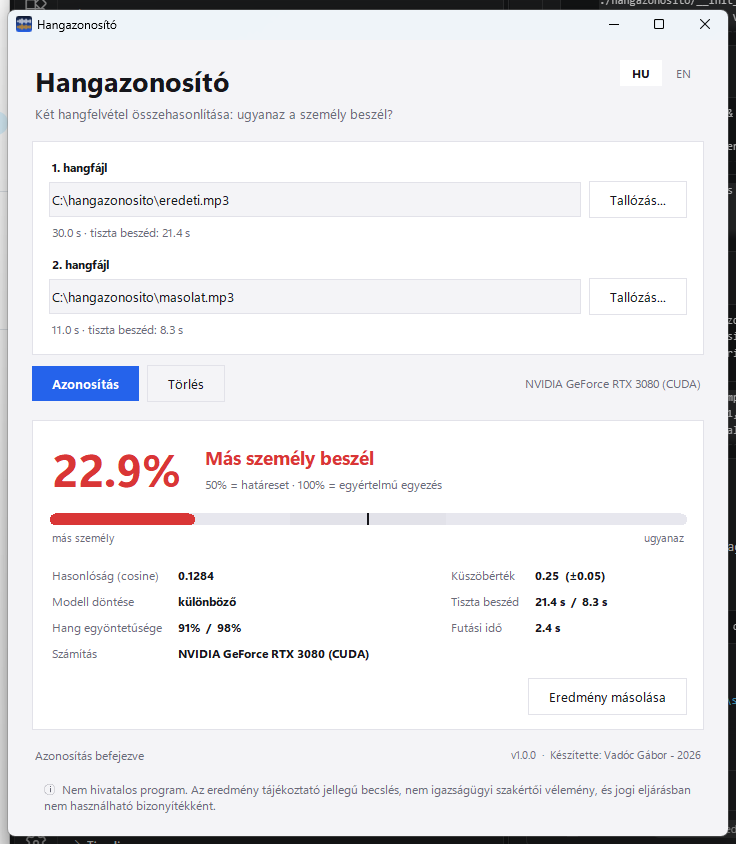
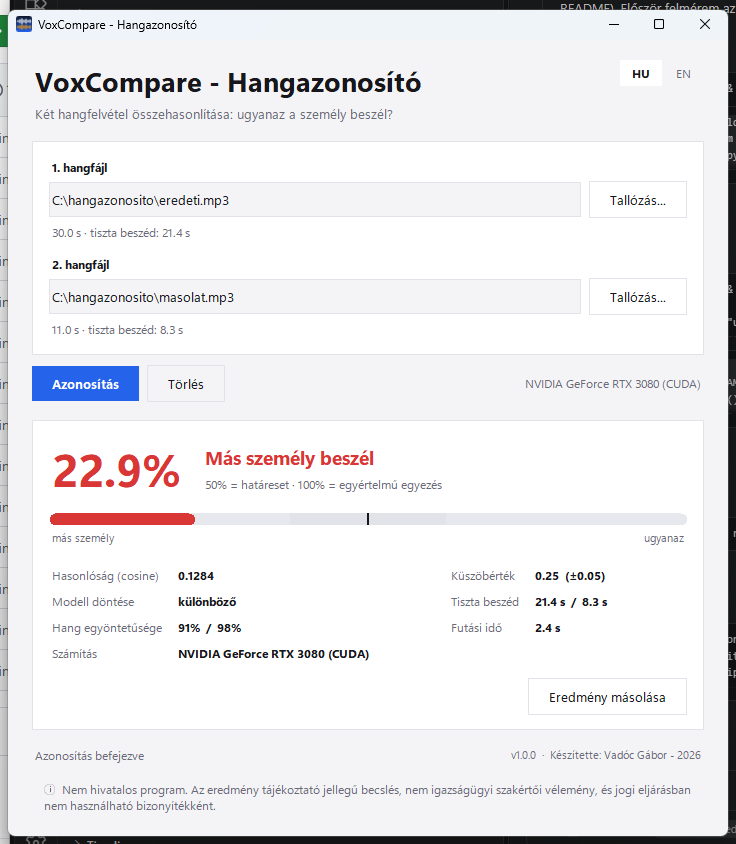
Rename to VoxCompare - Hangazonosító; side-by-side screenshots

diff --git a/voxcompare/i18n.py b/voxcompare/i18n.py
@@ -12,7 +12,7 @@ LANGS = {"hu": "Magyar", "en": "English"}
 
 STRINGS = {
     "hu": {
-        "title": "Hangazonosító",
+        "title": "VoxCompare - Hangazonosító",
         "subtitle": "Két hangfelvétel összehasonlítása: ugyanaz a személy beszél?",
         "credit": "Készítette: {a} - {y}",
         "disclaimer": "Nem hivatalos program. Az eredmény tájékoztató jellegű becslés, nem igazságügyi szakértői vélemény, és jogi eljárásban nem használható bizonyítékként.",
@@ -66,7 +66,7 @@ STRINGS = {
         "days": "",
     },
     "en": {
-        "title": "Hangazonosító",
+        "title": "VoxCompare - Hangazonosító",
         "subtitle": "Compare two recordings: is the same person speaking?",
         "credit": "Created by: {a} - {y}",
         "disclaimer": "Unofficial software. The result is an informative estimate, not a forensic expert opinion, and must not be used as evidence in legal proceedings.",

diff --git a/main.py b/main.py
@@ -1,4 +1,4 @@
-"""Hangazonosító - launcher.
+"""VoxCompare - Hangazonosító - launcher.
 
     python main.py                          start the application
     python main.py --compare A.wav B.wav    headless comparison (prints the score)
@@ -12,13 +12,13 @@ warnings.filterwarnings("ignore")  # third-party deprecation noise (torch, torch
 
 def main(argv: list) -> int:
     if "--version" in argv:
-        from hangazonosito import __version__
-        print(f"Hangazonosito {__version__}")
+        from voxcompare import __version__
+        print(f"VoxCompare {__version__}")
         return 0
     if argv[:1] == ["--compare"]:
-        from hangazonosito.engine import main_compare
+        from voxcompare.engine import main_compare
         return main_compare(argv[1:])
-    from hangazonosito.ui import run
+    from voxcompare.ui import run
     run()
     return 0
 

diff --git a/make_icon.py b/make_icon.py
@@ -52,7 +52,8 @@ def sidebar(width: int = 328, height: int = 628) -> Image.Image:
         draw.line((0, y, width, y), fill=tuple(int(NAVY[i] + (BLUE[i] - NAVY[i]) * t) for i in range(3)))
     mark = logo(160)
     img.paste(mark, ((width - 160) // 2, 110), mark)
-    draw.text((width / 2, 320), "Hangazonosító", font=font(34), fill="white", anchor="mm")
+    draw.text((width / 2, 316), "VoxCompare", font=font(36), fill="white", anchor="mm")
+    draw.text((width / 2, 360), "Hangazonosító", font=font(24), fill=(190, 205, 235), anchor="mm")
     draw.text((width / 2, height - 40), "Vadóc Gábor · 2026", font=font(20), fill=(190, 205, 235), anchor="mm")
     return img
 

diff --git a/tests/test_voxcompare.py b/tests/test_voxcompare.py
@@ -17,8 +17,8 @@ import numpy as np
 warnings.filterwarnings("ignore")
 sys.path.insert(0, str(Path(__file__).resolve().parent.parent))
 
-from hangazonosito import audio, engine
-from hangazonosito.i18n import STRINGS, tr
+from voxcompare import audio, engine
+from voxcompare.i18n import STRINGS, tr
 
 
 def write_wav(path: str, samples: np.ndarray, rate: int = 16_000) -> None:

diff --git a/voxcompare/__init__.py b/voxcompare/__init__.py
@@ -1,0 +1,7 @@
+"""VoxCompare - Hangazonosító - compares two recordings and estimates whether the same person speaks."""
+
+__version__ = "1.0.0"
+APP_NAME = "VoxCompare"
+AUTHOR = "Vadóc Gábor"
+YEAR = 2026
+REPO_URL = "https://github.com/vadocgabi/voxcompare"

diff --git a/README.md b/README.md
@@ -1,10 +1,15 @@
-# Hangazonosító
+# VoxCompare - Hangazonosító
 
 > **Compare two recordings and find out whether the same person is speaking.** Runs fully offline on your PC, GPU-accelerated if you have one. English & Hungarian UI.
 >
 > **Két hangfelvételt hasonlít össze, és megmondja, hogy ugyanaz a személy beszél-e.** Teljesen offline fut a gépeden, videókártyával gyorsítva, ha van. Magyar és angol felület.
 
-<p align="center"><img src="docs/screenshot-en.png" alt="Hangazonosító (English UI)" width="460">&nbsp;<img src="docs/screenshot-hu.png" alt="Hangazonosító" width="460"></p>
+<table align="center">
+  <tr>
+    <td align="center"><img src="docs/screenshot-en.png" alt="VoxCompare - English UI" width="400"><br><sub>English</sub></td>
+    <td align="center"><img src="docs/screenshot-hu.png" alt="VoxCompare - magyar felület" width="400"><br><sub>Magyar</sub></td>
+  </tr>
+</table>
 
 <p align="center"><a href="../../releases/latest"><b>⬇ Download / Letöltés</b></a></p>
 
@@ -29,8 +34,8 @@
 
 ### Telepítés
 
-1. Töltsd le a legfrissebb **`Hangazonosito-Setup-x.y.z.exe`** telepítőt a [Releases](../../releases) oldalról. A program a `Program Files` mappába települ, Start menü parancsikonnal (az asztali ikon opcionális).
-2. Telepítés nélkül: töltsd le a **`Hangazonosito-portable-x.y.z.zip`** fájlt, csomagold ki, és indítsd a `Hangazonosito.exe`-t.
+1. Töltsd le a legfrissebb **`VoxCompare-Setup-x.y.z.exe`** telepítőt a [Releases](../../releases) oldalról. A program a `Program Files` mappába települ, Start menü parancsikonnal (az asztali ikon opcionális).
+2. Telepítés nélkül: töltsd le a **`VoxCompare-portable-x.y.z.zip`** fájlt, csomagold ki, és indítsd a `VoxCompare.exe`-t.
 
 > Az exe nincs digitálisan aláírva, ezért a Windows SmartScreen figyelmeztethet („További információ → Futtatás mindenképp”). A fájlok SHA256-összege a kiadás leírásában szerepel.
 
@@ -102,8 +107,8 @@ Az első indításkor a modell (kb. 85 MB) letöltődik a `pretrained_models` ma
 
 ### Installation
 
-1. Download the latest **`Hangazonosito-Setup-x.y.z.exe`** from [Releases](../../releases). It installs to `Program Files` with a Start menu shortcut (desktop icon optional).
-2. No install: download **`Hangazonosito-portable-x.y.z.zip`**, extract it and run `Hangazonosito.exe`.
+1. Download the latest **`VoxCompare-Setup-x.y.z.exe`** from [Releases](../../releases). It installs to `Program Files` with a Start menu shortcut (desktop icon optional).
+2. No install: download **`VoxCompare-portable-x.y.z.zip`**, extract it and run `VoxCompare.exe`.
 
 > The exe is not code-signed, so Windows SmartScreen may warn you ("More info → Run anyway"). SHA256 checksums are in the release notes.
 
